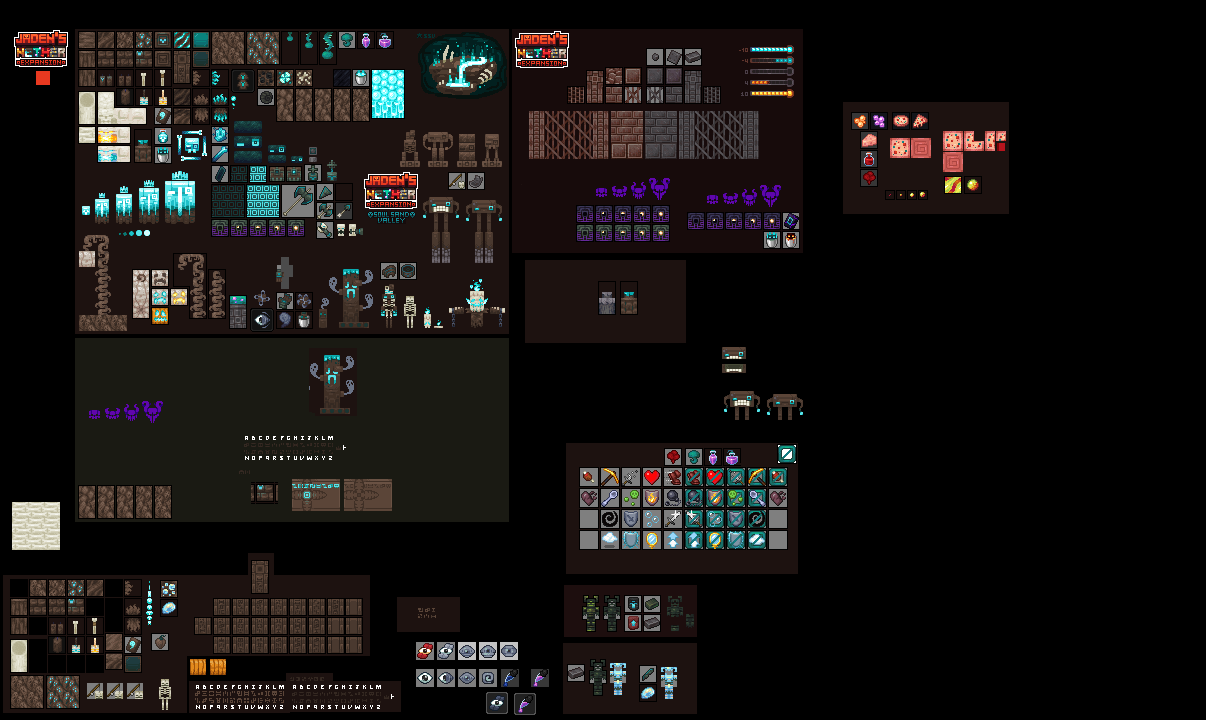
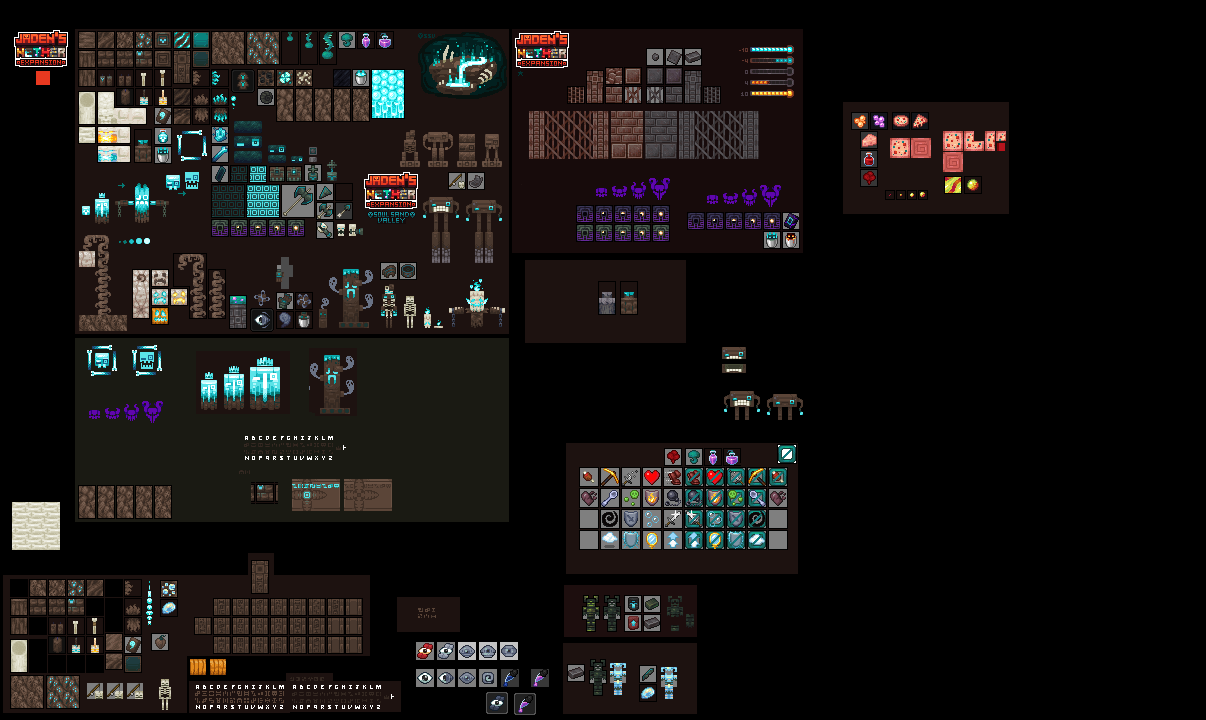
Finished Suspicious Soul Sand
Added
-JNEBrushableBlocks, vanilla's cannot to be used as it can't display items
 -Renderers and Block Entities for it have been made as well

Changes
-Soul Bullets now deal more damage
-JNEEntityTypes class is now plural like the others
-Removed Redundant Tags

Frontend
-Nether Expansion Sheet has been updated
-New Concept Art has been added

Fixes
-Suspicious Soul Sand now displays the items inside of it when brushed out

diff --git a/src/main/java/net/jadenxgamer/netherexp/registry/entity/client/JNEBrushableBlockEntityRenderer.java b/src/main/java/net/jadenxgamer/netherexp/registry/entity/client/JNEBrushableBlockEntityRenderer.java
@@ -1,0 +1,77 @@
+package net.jadenxgamer.netherexp.registry.entity.client;
+
+import net.jadenxgamer.netherexp.registry.block.entity.JNEBrushableBlockEntity;
+import net.minecraft.client.render.OverlayTexture;
+import net.minecraft.client.render.VertexConsumerProvider;
+import net.minecraft.client.render.WorldRenderer;
+import net.minecraft.client.render.block.entity.BlockEntityRenderer;
+import net.minecraft.client.render.block.entity.BlockEntityRendererFactory;
+import net.minecraft.client.render.item.ItemRenderer;
+import net.minecraft.client.render.model.json.ModelTransformationMode;
+import net.minecraft.client.util.math.MatrixStack;
+import net.minecraft.item.ItemStack;
+import net.minecraft.state.property.Properties;
+import net.minecraft.util.math.Direction;
+import net.minecraft.util.math.RotationAxis;
+
+public class JNEBrushableBlockEntityRenderer implements BlockEntityRenderer<JNEBrushableBlockEntity> {
+    private final ItemRenderer itemRenderer;
+
+    public JNEBrushableBlockEntityRenderer(BlockEntityRendererFactory.Context context) {
+        this.itemRenderer = context.getItemRenderer();
+    }
+
+    // Literally just Vanilla's BrushableBlockEntityRenderer Code
+
+    private float[] getTranslation(Direction direction, int dustedLevel) {
+        float[] fs = new float[]{0.5F, 0.0F, 0.5F};
+        float f = (float)dustedLevel / 10.0F * 0.75F;
+        switch (direction) {
+            case EAST:
+                fs[0] = 0.73F + f;
+                break;
+            case WEST:
+                fs[0] = 0.25F - f;
+                break;
+            case UP:
+                fs[1] = 0.25F + f;
+                break;
+            case DOWN:
+                fs[1] = -0.23F - f;
+                break;
+            case NORTH:
+                fs[2] = 0.25F - f;
+                break;
+            case SOUTH:
+                fs[2] = 0.73F + f;
+        }
+
+        return fs;
+    }
+
+    @Override
+    public void render(JNEBrushableBlockEntity entity, float tickDelta, MatrixStack matrices, VertexConsumerProvider vertexConsumers, int light, int overlay) {
+        if (entity.getWorld() != null) {
+            int k = entity.getCachedState().get(Properties.DUSTED);
+            if (k > 0) {
+                Direction direction = entity.getHitDirection();
+                if (direction != null) {
+                    ItemStack itemStack = entity.getItem();
+                    if (!itemStack.isEmpty()) {
+                        matrices.push();
+                        matrices.translate(0.0F, 0.5F, 0.0F);
+                        float[] fs = this.getTranslation(direction, k);
+                        matrices.translate(fs[0], fs[1], fs[2]);
+                        matrices.multiply(RotationAxis.POSITIVE_Y.rotationDegrees(75.0F));
+                        boolean bl = direction == Direction.EAST || direction == Direction.WEST;
+                        matrices.multiply(RotationAxis.POSITIVE_Y.rotationDegrees((float)((bl ? 90 : 0) + 11)));
+                        matrices.scale(0.5F, 0.5F, 0.5F);
+                        int l = WorldRenderer.getLightmapCoordinates(entity.getWorld(), entity.getCachedState(), entity.getPos().offset(direction));
+                        this.itemRenderer.renderItem(itemStack, ModelTransformationMode.FIXED, l, OverlayTexture.DEFAULT_UV, matrices, vertexConsumers, entity.getWorld(), 0);
+                        matrices.pop();
+                    }
+                }
+            }
+        }
+    }
+}

diff --git a/src/main/java/net/jadenxgamer/netherexp/NetherExpClient.java b/src/main/java/net/jadenxgamer/netherexp/NetherExpClient.java
@@ -5,10 +5,12 @@ import net.fabricmc.fabric.api.blockrenderlayer.v1.BlockRenderLayerMap;
 import net.fabricmc.fabric.api.client.particle.v1.ParticleFactoryRegistry;
 import net.fabricmc.fabric.api.client.render.fluid.v1.FluidRenderHandlerRegistry;
 import net.fabricmc.fabric.api.client.render.fluid.v1.SimpleFluidRenderHandler;
+import net.fabricmc.fabric.api.client.rendering.v1.BlockEntityRendererRegistry;
 import net.fabricmc.fabric.api.client.rendering.v1.ColorProviderRegistry;
 import net.fabricmc.fabric.api.client.rendering.v1.EntityRendererRegistry;
+import net.jadenxgamer.netherexp.registry.block.JNEBlockEntityTypes;
 import net.jadenxgamer.netherexp.registry.block.JNEBlocks;
-import net.jadenxgamer.netherexp.registry.entity.JNEEntityType;
+import net.jadenxgamer.netherexp.registry.entity.JNEEntityTypes;
 import net.jadenxgamer.netherexp.registry.entity.client.*;
 import net.jadenxgamer.netherexp.registry.fluid.JNEFluids;
 import net.jadenxgamer.netherexp.registry.item.JNEItems;
@@ -21,6 +23,7 @@ import net.minecraft.client.render.RenderLayer;
 import net.minecraft.client.render.entity.EmptyEntityRenderer;
 import net.minecraft.util.Identifier;
 
+@SuppressWarnings("deprecation")
 public class NetherExpClient implements ClientModInitializer {
 
     // FOG RENDERERS
@@ -143,13 +146,14 @@ public class NetherExpClient implements ClientModInitializer {
         ParticleFactoryRegistry.getInstance().register(JNEParticles.SOULBLIGHT_SPORE, SoulblightSporeFactory::new);
 
         // ENTITY
-        EntityRendererRegistry.register(JNEEntityType.WARPHOPPER, WarphopperRenderer::new);
-        EntityRendererRegistry.register(JNEEntityType.STAMPEDE, StampedeRenderer::new);
-        EntityRendererRegistry.register(JNEEntityType.APPARITION, ApparitionRenderer::new);
-        EntityRendererRegistry.register(JNEEntityType.WISP, WispRenderer::new);
-        EntityRendererRegistry.register(JNEEntityType.GRASP, GraspRenderer::new);
-        EntityRendererRegistry.register(JNEEntityType.MIST_CHARGE, MistChargeRenderer::new);
-        EntityRendererRegistry.register(JNEEntityType.MIST_CHARGE_CLOUD, EmptyEntityRenderer::new);
-        EntityRendererRegistry.register(JNEEntityType.SOUL_BULLET, SoulBulletEntityRenderer::new);
+        EntityRendererRegistry.register(JNEEntityTypes.WARPHOPPER, WarphopperRenderer::new);
+        EntityRendererRegistry.register(JNEEntityTypes.STAMPEDE, StampedeRenderer::new);
+        EntityRendererRegistry.register(JNEEntityTypes.APPARITION, ApparitionRenderer::new);
+        EntityRendererRegistry.register(JNEEntityTypes.WISP, WispRenderer::new);
+        EntityRendererRegistry.register(JNEEntityTypes.GRASP, GraspRenderer::new);
+        EntityRendererRegistry.register(JNEEntityTypes.MIST_CHARGE, MistChargeRenderer::new);
+        EntityRendererRegistry.register(JNEEntityTypes.MIST_CHARGE_CLOUD, EmptyEntityRenderer::new);
+        EntityRendererRegistry.register(JNEEntityTypes.SOUL_BULLET, SoulBulletEntityRenderer::new);
+        BlockEntityRendererRegistry.register(JNEBlockEntityTypes.BRUSHABLE_BLOCK, JNEBrushableBlockEntityRenderer::new);
     }
 }

diff --git a/src/main/java/net/jadenxgamer/netherexp/registry/item/JNEItems.java b/src/main/java/net/jadenxgamer/netherexp/registry/item/JNEItems.java
@@ -3,7 +3,7 @@ package net.jadenxgamer.netherexp.registry.item;
 import net.fabricmc.fabric.api.item.v1.FabricItemSettings;
 import net.jadenxgamer.netherexp.NetherExp;
 import net.jadenxgamer.netherexp.registry.block.JNEBlocks;
-import net.jadenxgamer.netherexp.registry.entity.JNEEntityType;
+import net.jadenxgamer.netherexp.registry.entity.JNEEntityTypes;
 import net.jadenxgamer.netherexp.registry.item.custom.*;
 import net.jadenxgamer.netherexp.registry.misc_registry.JNEArmorTrimPatterns;
 import net.jadenxgamer.netherexp.registry.sound.JNESoundEvents;
@@ -74,7 +74,7 @@ public class JNEItems {
             new Item(new FabricItemSettings().food(JNEFoodComponents.PIZZA_SLICE)));
 
     public static final Item WISP_BOTTLE = registerItem("wisp_bottle",
-            new EntityBottleItem(JNEEntityType.WISP, SoundEvents.ITEM_BOTTLE_EMPTY, new FabricItemSettings().maxCount(1)));
+            new EntityBottleItem(JNEEntityTypes.WISP, SoundEvents.ITEM_BOTTLE_EMPTY, new FabricItemSettings().maxCount(1)));
 
     public static final Item MAGMA_CUBE_BUCKET = registerItem("magma_cube_bucket",
             new EntityBucketItem(EntityType.MAGMA_CUBE, Fluids.LAVA, JNESoundEvents.ITEM_BUCKET_EMPTY_MAGMA_CUBE, new FabricItemSettings().maxCount(1)));
@@ -104,23 +104,23 @@ public class JNEItems {
             new ShotgunFistItem(new FabricItemSettings().maxCount(1).maxDamage(300)));
 
     public static final Item WARPHOPPER_SPAWN_EGG = registerItem("warphopper_spawn_egg",
-            new SpawnEggItem(JNEEntityType.WARPHOPPER,0x119b85,0x324149,
+            new SpawnEggItem(JNEEntityTypes.WARPHOPPER,0x119b85,0x324149,
                     new FabricItemSettings()));
 
     public static final Item APPARITION_SPAWN_EGG = registerItem("apparition_spawn_egg",
-            new SpawnEggItem(JNEEntityType.APPARITION,4864303,699311,
+            new SpawnEggItem(JNEEntityTypes.APPARITION,4864303,699311,
                     new FabricItemSettings()));
 
     public static final Item STAMPEDE_SPAWN_EGG = registerItem("stampede_spawn_egg",
-            new SpawnEggItem(JNEEntityType.STAMPEDE,4864303,10236982,
+            new SpawnEggItem(JNEEntityTypes.STAMPEDE,4864303,10236982,
                     new FabricItemSettings()));
 
     public static final Item WISP_SPAWN_EGG = registerItem("wisp_spawn_egg",
-            new SpawnEggItem(JNEEntityType.WISP,6022120,699311,
+            new SpawnEggItem(JNEEntityTypes.WISP,6022120,699311,
                     new FabricItemSettings()));
 
     public static final Item GRASP_SPAWN_EGG = registerItem("grasp_spawn_egg",
-            new SpawnEggItem(JNEEntityType.GRASP,4864303,6910597,
+            new SpawnEggItem(JNEEntityTypes.GRASP,4864303,6910597,
                     new FabricItemSettings()));
 
     public static final Item CLARET_SIGN_ITEM = registerItem("claret_sign",

diff --git a/src/main/java/net/jadenxgamer/netherexp/registry/entity/custom/MistChargeEntity.java b/src/main/java/net/jadenxgamer/netherexp/registry/entity/custom/MistChargeEntity.java
@@ -1,6 +1,6 @@
 package net.jadenxgamer.netherexp.registry.entity.custom;
 
-import net.jadenxgamer.netherexp.registry.entity.JNEEntityType;
+import net.jadenxgamer.netherexp.registry.entity.JNEEntityTypes;
 import net.jadenxgamer.netherexp.registry.item.JNEItems;
 import net.jadenxgamer.netherexp.registry.particle.JNEParticles;
 import net.minecraft.entity.Entity;
@@ -38,7 +38,7 @@ public class MistChargeEntity extends ThrownItemEntity implements GeoEntity {
     }
 
     public MistChargeEntity(LivingEntity livingEntity, World world) {
-        super(JNEEntityType.MIST_CHARGE, livingEntity, world);
+        super(JNEEntityTypes.MIST_CHARGE, livingEntity, world);
     }
 
     @Override
@@ -58,7 +58,7 @@ public class MistChargeEntity extends ThrownItemEntity implements GeoEntity {
         BlockPos blockPos = entity.getBlockPos();
         this.getWorld().playSound(null, blockPos.getX(), blockPos.getY(), blockPos.getZ(), SoundEvents.BLOCK_MUD_PLACE, SoundCategory.NEUTRAL, 1F, 1F);
         if (this.getWorld() instanceof ServerWorld) {
-            GraveCloudEntity graveCloudEntity = JNEEntityType.MIST_CHARGE_CLOUD.create(this.getWorld());
+            GraveCloudEntity graveCloudEntity = JNEEntityTypes.MIST_CHARGE_CLOUD.create(this.getWorld());
             if (graveCloudEntity != null) {
                 graveCloudEntity.refreshPositionAfterTeleport(Vec3d.ofBottomCenter(blockPos));
                 graveCloudEntity.setOwner((LivingEntity) this.getOwner());
@@ -75,7 +75,7 @@ public class MistChargeEntity extends ThrownItemEntity implements GeoEntity {
         BlockPos blockPos = blockHitResult.getBlockPos();
         this.getWorld().playSound(null, blockPos.getX(), blockPos.getY(), blockPos.getZ(), SoundEvents.BLOCK_MUD_PLACE, SoundCategory.NEUTRAL, 1F, 1F);
         if (this.getWorld() instanceof ServerWorld) {
-            GraveCloudEntity graveCloudEntity = JNEEntityType.MIST_CHARGE_CLOUD.create(this.getWorld());
+            GraveCloudEntity graveCloudEntity = JNEEntityTypes.MIST_CHARGE_CLOUD.create(this.getWorld());
             if (graveCloudEntity != null) {
                 graveCloudEntity.refreshPositionAfterTeleport(Vec3d.ofBottomCenter(blockPos));
                 graveCloudEntity.setOwner((LivingEntity) this.getOwner());

diff --git a/src/main/java/net/jadenxgamer/netherexp/NetherExp.java b/src/main/java/net/jadenxgamer/netherexp/NetherExp.java
@@ -11,7 +11,7 @@ import net.fabricmc.loader.api.FabricLoader;
 import net.jadenxgamer.netherexp.registry.block.JNEBlocks;
 import net.jadenxgamer.netherexp.registry.config.JNEConfigs;
 import net.jadenxgamer.netherexp.registry.effect.JNEStatusEffects;
-import net.jadenxgamer.netherexp.registry.entity.JNEEntityType;
+import net.jadenxgamer.netherexp.registry.entity.JNEEntityTypes;
 import net.jadenxgamer.netherexp.registry.entity.custom.*;
 import net.jadenxgamer.netherexp.registry.event.LiquidloggedBucketEvent;
 import net.jadenxgamer.netherexp.registry.event.NyliumPathEvent;
@@ -62,11 +62,11 @@ public class NetherExp implements ModInitializer {
 		GeckoLib.initialize();
 
 		// ENTITY ATTRIBUTES
-		FabricDefaultAttributeRegistry.register(JNEEntityType.WARPHOPPER, WarphopperEntity.setAttributes());
-		FabricDefaultAttributeRegistry.register(JNEEntityType.STAMPEDE, StampedeEntity.setAttributes());
-		FabricDefaultAttributeRegistry.register(JNEEntityType.APPARITION, ApparitionEntity.setAttributes());
-		FabricDefaultAttributeRegistry.register(JNEEntityType.WISP, WispEntity.setAttributes());
-		FabricDefaultAttributeRegistry.register(JNEEntityType.GRASP, GraspEntity.setAttributes());
+		FabricDefaultAttributeRegistry.register(JNEEntityTypes.WARPHOPPER, WarphopperEntity.setAttributes());
+		FabricDefaultAttributeRegistry.register(JNEEntityTypes.STAMPEDE, StampedeEntity.setAttributes());
+		FabricDefaultAttributeRegistry.register(JNEEntityTypes.APPARITION, ApparitionEntity.setAttributes());
+		FabricDefaultAttributeRegistry.register(JNEEntityTypes.WISP, WispEntity.setAttributes());
+		FabricDefaultAttributeRegistry.register(JNEEntityTypes.GRASP, GraspEntity.setAttributes());
 
 		// FUELS
 		FuelRegistry fuelRegistry = FuelRegistry.INSTANCE;

diff --git a/src/main/java/net/jadenxgamer/netherexp/registry/misc_registry/JNETags.java b/src/main/java/net/jadenxgamer/netherexp/registry/misc_registry/JNETags.java
@@ -43,9 +43,6 @@ public class JNETags {
         // Igneous Reeds are Plantable on these Blocks
         public static final TagKey<Block> IGNEOUS_REEDS_PLANTABLE_ON = createBlockTag("igneous_reeds_plantable_on");
 
-        // Tag to define all kinds of Magma Blocks
-        public static final TagKey<Block> MAGMA_BLOCKS = createBlockTag("magma_blocks");
-
         // Zombified Piglins cannot spawn on these Blocks
         public static final TagKey<Block> ZOMBIFIED_PIGLIN_CANNOT_SPAWN_ON = createBlockTag("zombified_piglin_cannot_spawn_on");
 
@@ -98,9 +95,6 @@ public class JNETags {
         // Killing Skeletons on these blocks Converts it to Fossil Ore
         public static final TagKey<Block> FOSSIL_ORE_CONVERTIBLE = createBlockTag("fossil_ore_convertible");
 
-        // Wisps will try to find blocks in this tag and circle around it
-        public static final TagKey<Block> SOUL_FIRE_THAT_LURES_WISPS = createBlockTag("soul_fire_that_lures_wisps");
-
         // Blocks in this tag will no longer slow you down if Unbounded Speed effect is applied
         public static final TagKey<Block> UNBOUNDED_SPEED_BLOCKS = createBlockTag("unbounded_speed_blocks");
 
@@ -140,6 +134,8 @@ public class JNETags {
          *  (This Tag does not have any functionality as of now)
          */
         public static final TagKey<EntityType<?>> SOUL_GLASS_PASSABLE = createEntityTypeTag("soul_glass_passable");
+
+        // Entities in this tag cannot activate Swirls
         public static final TagKey<EntityType<?>> CANT_ACTIVATE_SWIRLS = createEntityTypeTag("cant_activate_swirls");
 
         private static TagKey<EntityType<?>> createEntityTypeTag(String name) {

diff --git a/src/main/java/net/jadenxgamer/netherexp/registry/entity/custom/ApparitionEntity.java b/src/main/java/net/jadenxgamer/netherexp/registry/entity/custom/ApparitionEntity.java
@@ -1,7 +1,7 @@
 package net.jadenxgamer.netherexp.registry.entity.custom;
 
 import com.google.common.annotations.VisibleForTesting;
-import net.jadenxgamer.netherexp.registry.entity.JNEEntityType;
+import net.jadenxgamer.netherexp.registry.entity.JNEEntityTypes;
 import net.jadenxgamer.netherexp.registry.particle.JNEParticles;
 import net.minecraft.block.BlockState;
 import net.minecraft.entity.*;
@@ -158,7 +158,7 @@ implements GeoEntity, Angerable, Flutterer {
             if (striderEntity.isSaddled()) {
                 this.dropItem(Items.SADDLE);
             }
-            StampedeEntity stampedeEntity = striderEntity.convertTo(JNEEntityType.STAMPEDE, false);
+            StampedeEntity stampedeEntity = striderEntity.convertTo(JNEEntityTypes.STAMPEDE, false);
             this.remove(RemovalReason.DISCARDED);
             if (stampedeEntity != null) {
                 striderEntity.initialize(world, world.getLocalDifficulty(striderEntity.getBlockPos()), SpawnReason.CONVERSION, new EntityData() {
@@ -197,7 +197,7 @@ implements GeoEntity, Angerable, Flutterer {
     public void onDeath(DamageSource damageSource) {
         World world = this.getWorld();
         for (int i = 0; i < this.getStage(); i++) {
-            WispEntity wispEntity = JNEEntityType.WISP.create(world);
+            WispEntity wispEntity = JNEEntityTypes.WISP.create(world);
             assert wispEntity != null;
             wispEntity.setBoredDelay(10);
             wispEntity.setPosition(this.getX() + 0.5, this.getY(), this.getZ() + 0.5);

diff --git a/src/main/java/net/jadenxgamer/netherexp/registry/entity/custom/SoulBulletEntity.java b/src/main/java/net/jadenxgamer/netherexp/registry/entity/custom/SoulBulletEntity.java
@@ -1,6 +1,6 @@
 package net.jadenxgamer.netherexp.registry.entity.custom;
 
-import net.jadenxgamer.netherexp.registry.entity.JNEEntityType;
+import net.jadenxgamer.netherexp.registry.entity.JNEEntityTypes;
 import net.jadenxgamer.netherexp.registry.misc_registry.JNEDamageSources;
 import net.minecraft.entity.Entity;
 import net.minecraft.entity.EntityType;
@@ -20,7 +20,7 @@ public class SoulBulletEntity extends PersistentProjectileEntity {
     }
 
     public SoulBulletEntity(World world, LivingEntity owner) {
-        super(JNEEntityType.SOUL_BULLET, owner, world);
+        super(JNEEntityTypes.SOUL_BULLET, owner, world);
     }
 
     @Override
@@ -43,7 +43,7 @@ public class SoulBulletEntity extends PersistentProjectileEntity {
         if (!this.getWorld().isClient) {
             Entity entity = entityHitResult.getEntity();
             Entity owner = getOwner();
-            entity.damage(this.getDamageSources().create(JNEDamageSources.SOUL_BULLET, this, owner), 1);
+            entity.damage(this.getDamageSources().create(JNEDamageSources.SOUL_BULLET, this, owner), 2);
             this.playSound(getHitSound(), 0.5f, 1.0f);
             this.getWorld().addParticle(ParticleTypes.SOUL_FIRE_FLAME, this.getX(), this.getY(), this.getZ(), 0.0, 0.0, 0.0);
             this.discard();

diff --git a/src/main/java/net/jadenxgamer/netherexp/registry/block/JNEBlockEntityTypes.java b/src/main/java/net/jadenxgamer/netherexp/registry/block/JNEBlockEntityTypes.java
@@ -1,0 +1,24 @@
+package net.jadenxgamer.netherexp.registry.block;
+
+import net.fabricmc.fabric.api.object.builder.v1.block.entity.FabricBlockEntityTypeBuilder;
+import net.jadenxgamer.netherexp.NetherExp;
+import net.jadenxgamer.netherexp.registry.block.entity.JNEBrushableBlockEntity;
+import net.minecraft.block.entity.BlockEntityType;
+import net.minecraft.registry.Registries;
+import net.minecraft.registry.Registry;
+import net.minecraft.util.Identifier;
+
+public class JNEBlockEntityTypes {
+
+    // TODO Add Skeletal Heads
+//    public static final BlockEntityType<ModSkullBlockEntity> SKULL =
+//            Registry.register(Registries.BLOCK_ENTITY_TYPE, new Identifier(NetherExp.MOD_ID, "skull"),
+//                    FabricBlockEntityTypeBuilder.create(ModSkullBlockEntity::new,
+//                    ModBlocks.SKELETAL_CREEPER_SKULL, ModBlocks.SKELETAL_CREEPER_WALL_SKULL
+//                    ).build(null));
+
+    public static final BlockEntityType<JNEBrushableBlockEntity> BRUSHABLE_BLOCK =
+            Registry.register(Registries.BLOCK_ENTITY_TYPE, new Identifier(NetherExp.MOD_ID, "brushable_block"),
+                    FabricBlockEntityTypeBuilder.create(JNEBrushableBlockEntity::new, JNEBlocks.SUSPICIOUS_SOUL_SAND).build());
+
+}

diff --git a/src/main/java/net/jadenxgamer/netherexp/registry/block/JNEBlocks.java b/src/main/java/net/jadenxgamer/netherexp/registry/block/JNEBlocks.java
@@ -107,7 +107,7 @@ public class JNEBlocks {
             new EctoSoulSandBlock(FabricBlockSettings.copyOf(Blocks.SOUL_SAND).mapColor(MapColor.BROWN).luminance(3).ticksRandomly().sounds(BlockSoundGroup.SOUL_SAND)));
 
     public static final Block SUSPICIOUS_SOUL_SAND = registerBlock("suspicious_soul_sand",
-            new BrushableBlock(Blocks.SOUL_SAND ,FabricBlockSettings.copyOf(Blocks.SOUL_SAND).mapColor(MapColor.BROWN).velocityMultiplier(0.2F).strength(0.25F).pistonBehavior(PistonBehavior.DESTROY).sounds(JNESoundEvents.SUSPICIOUS_SOUL_SAND), SoundEvents.ITEM_BRUSH_BRUSHING_SAND, JNESoundEvents.ITEM_BRUSH_BRUSHING_SOUL_SAND_COMPLETE));
+            new JNEBrushableBlock(Blocks.SOUL_SAND ,FabricBlockSettings.copyOf(Blocks.SOUL_SAND).mapColor(MapColor.BROWN).velocityMultiplier(0.2F).strength(0.25F).pistonBehavior(PistonBehavior.DESTROY).sounds(JNESoundEvents.SUSPICIOUS_SOUL_SAND), SoundEvents.ITEM_BRUSH_BRUSHING_SAND, JNESoundEvents.ITEM_BRUSH_BRUSHING_SOUL_SAND_COMPLETE));
 
     public static final Block SOUL_MAGMA_BLOCK = registerBlock("soul_magma_block",
             new SoulMagmaBlock(FabricBlockSettings.copyOf(Blocks.SOUL_SOIL).mapColor(MapColor.LIGHT_BLUE).luminance(3).sounds(JNESoundEvents.SOUL_MAGMA_BLOCK)));

diff --git a/src/main/java/net/jadenxgamer/netherexp/registry/block/custom/JNEBrushableBlock.java b/src/main/java/net/jadenxgamer/netherexp/registry/block/custom/JNEBrushableBlock.java
@@ -1,0 +1,22 @@
+package net.jadenxgamer.netherexp.registry.block.custom;
+
+import net.jadenxgamer.netherexp.registry.block.entity.JNEBrushableBlockEntity;
+import net.minecraft.block.Block;
+import net.minecraft.block.BlockState;
+import net.minecraft.block.BrushableBlock;
+import net.minecraft.block.entity.BlockEntity;
+import net.minecraft.sound.SoundEvent;
+import net.minecraft.util.math.BlockPos;
+import org.jetbrains.annotations.Nullable;
+
+public class JNEBrushableBlock extends BrushableBlock {
+    public JNEBrushableBlock(Block baseBlock, Settings settings, SoundEvent brushingSound, SoundEvent brushingCompleteSound) {
+        super(baseBlock, settings, brushingSound, brushingCompleteSound);
+    }
+
+    @Nullable
+    @Override
+    public BlockEntity createBlockEntity(BlockPos pos, BlockState state) {
+        return new JNEBrushableBlockEntity(pos, state);
+    }
+}

diff --git a/src/main/java/net/jadenxgamer/netherexp/registry/block/custom/EctoSoulSandBlock.java b/src/main/java/net/jadenxgamer/netherexp/registry/block/custom/EctoSoulSandBlock.java
@@ -1,7 +1,7 @@
 package net.jadenxgamer.netherexp.registry.block.custom;
 
 import net.jadenxgamer.netherexp.NetherExp;
-import net.jadenxgamer.netherexp.registry.entity.JNEEntityType;
+import net.jadenxgamer.netherexp.registry.entity.JNEEntityTypes;
 import net.jadenxgamer.netherexp.registry.entity.custom.WispEntity;
 import net.minecraft.block.*;
 import net.minecraft.entity.ai.pathing.NavigationType;
@@ -64,7 +64,7 @@ extends Block
     }
 
     private void spawnWisp(ServerWorld world, BlockPos pos, Random random) {
-        WispEntity wispEntity = JNEEntityType.WISP.create(world);
+        WispEntity wispEntity = JNEEntityTypes.WISP.create(world);
         if (wispEntity != null) {
             wispEntity.setBoredDelay(random.nextInt(1000) + 600);
             wispEntity.setPosition(pos.getX() + 0.5, pos.getY(), pos.getZ() + 0.5);
